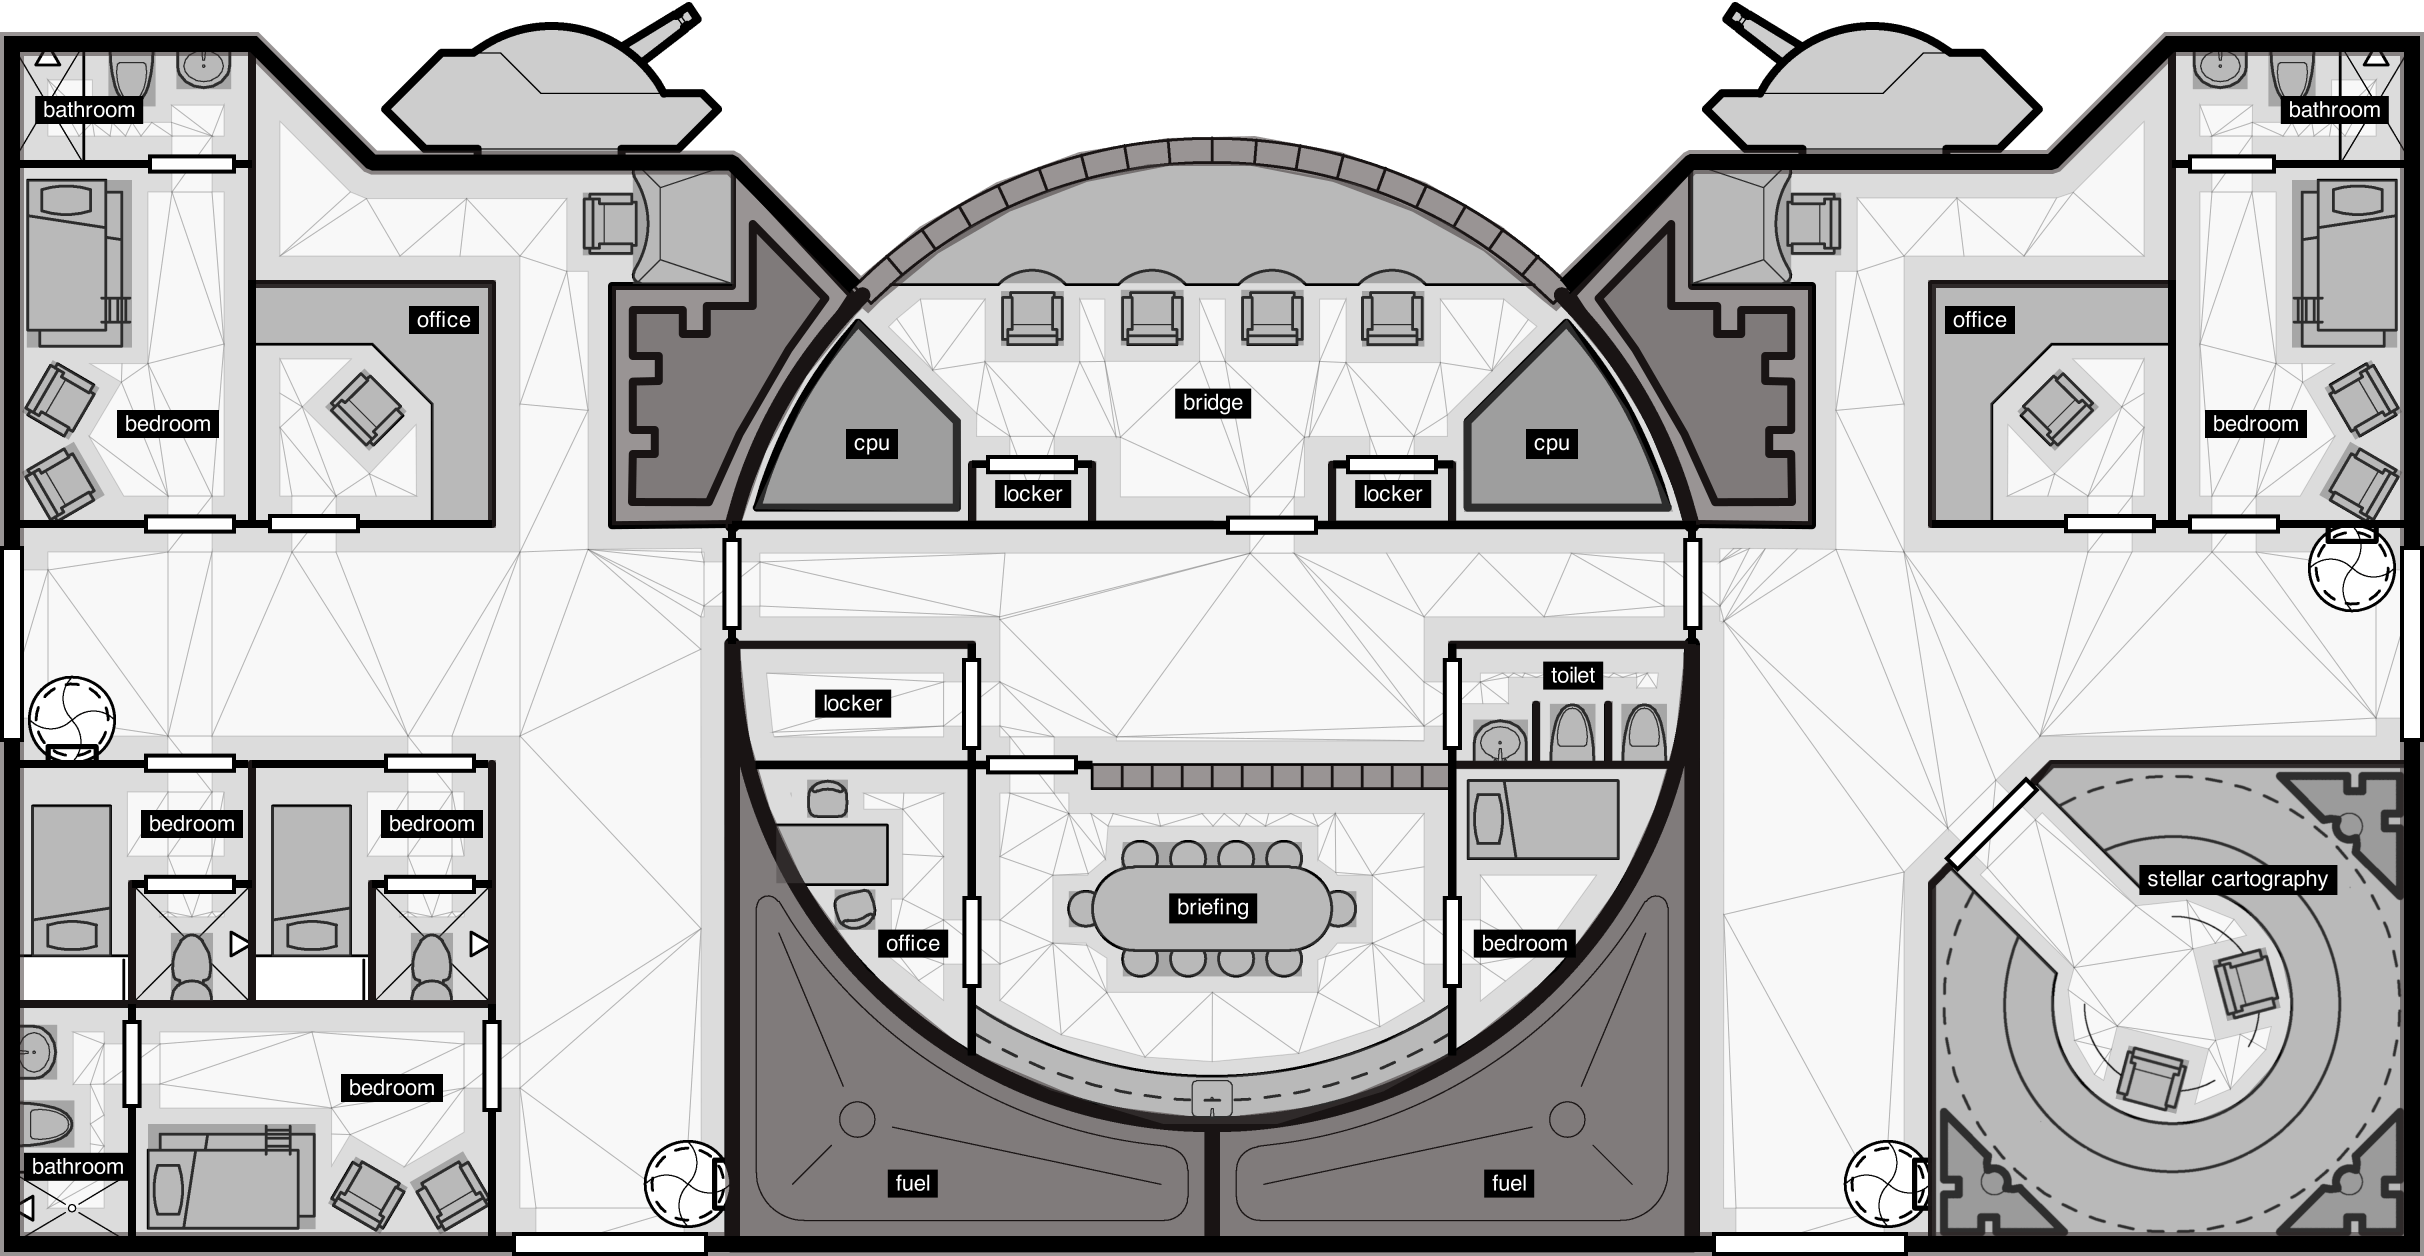
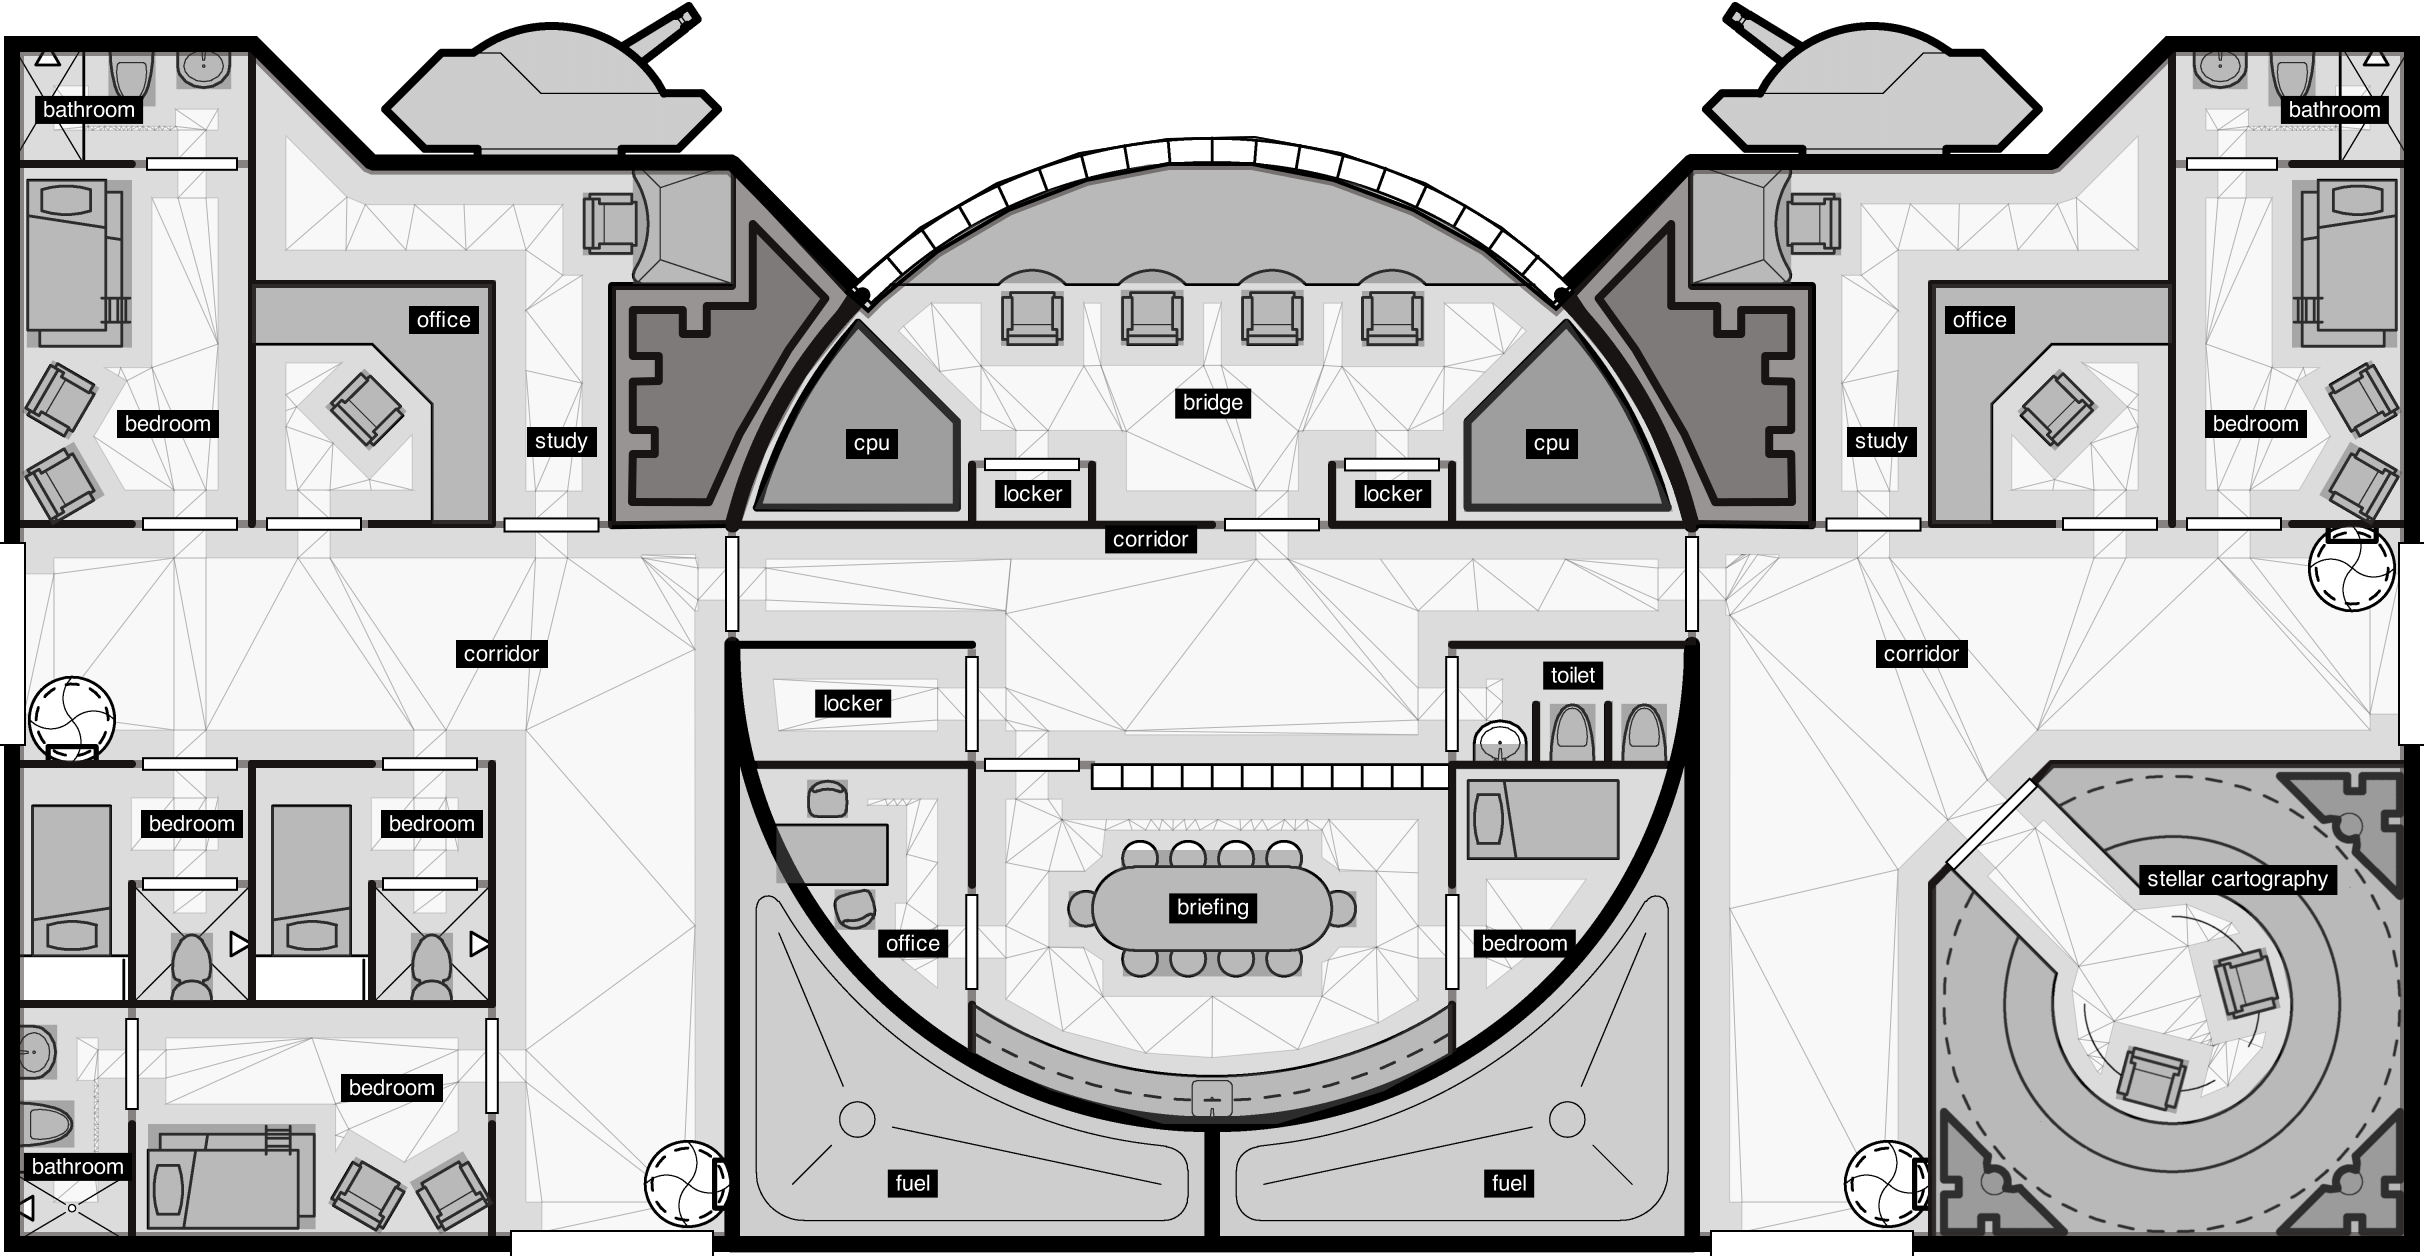
feat: clarify label measure; clean 301

diff --git a/projects/geomorph/geomorph.d.ts b/projects/geomorph/geomorph.d.ts
@@ -172,14 +172,20 @@ declare namespace Geomorph {
     pngHref: string;
   }
 
+  /**
+   * Includes measurements for canvas-based
+   * debug geomorph rendering. In practice,
+   * labels would be should via CSS if at all.
+   */
   export interface LayoutLabel {
-    /** Originally specified in symbol svg */
-    center: Geom.VectJson;
     /** The label */
     text: string;
-    /** World rect containing text */
+    /** Originally specified in symbol svg */
+    center: Geom.VectJson;
+
+    /** Measured world rect containing text */
     rect: Geom.RectJson;
-    /** Padded world rect containing text */
+    /** Measured padded world rect containing text */
     padded: Geom.RectJson;
   }
 

diff --git a/projects/geomorph/render-geomorph.js b/projects/geomorph/render-geomorph.js
@@ -118,9 +118,9 @@ export async function renderGeomorph(
   if (doors) {
     const doors = singlesToPolys(singles, 'door');
     ctxt.fillStyle = 'rgba(0, 0, 0, 1)';
-    fillPolygon(ctxt, doors);
+    fillPolygon(ctxt, doors.flatMap(x => x.createOutset(1)));
     ctxt.fillStyle = 'rgba(255, 255, 255, 1)';
-    fillPolygon(ctxt, doors.flatMap(x => x.createInset(2)));
+    fillPolygon(ctxt, doors);
   }
 
   if (labels) {

diff --git a/docs/plan.md b/docs/plan.md
@@ -33,7 +33,7 @@ Naturally, the Sangha has insisted he ordain as a Novice in the Upper Pyramid.
   - ✅ props.linkProvider.callback invokes xterm.autoSendCode
   - ✅ terminal session associated to NPCs via `ready`
   - ✅ remove tag `switch`
-  - remove label measure?
+  - ✅ clarify label measure
   - info icons at room labels, onclick sends message to tty
 
 - npc walk collision prevention
